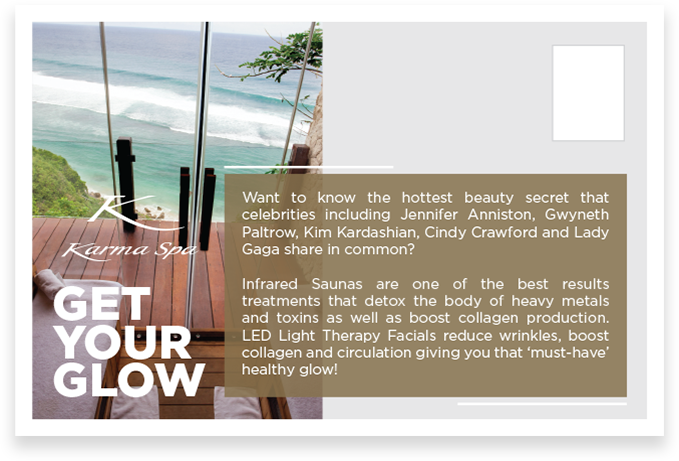
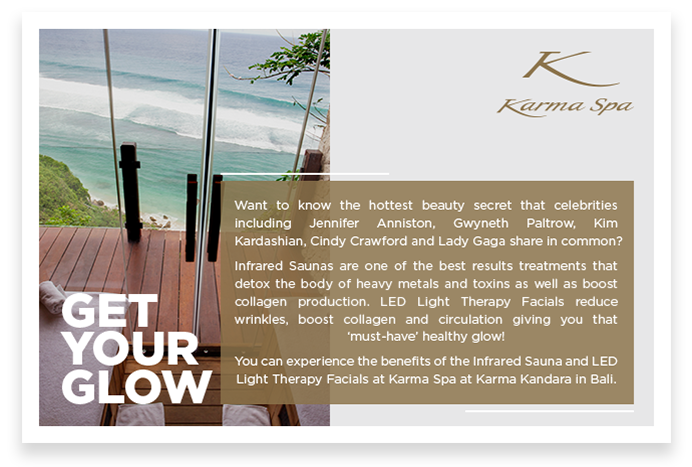
add revisi edm thankfull tuesday

Changed region(s): [[0.0309, 0.0304, 0.9278, 0.9111], [0.7113, 0.0911, 0.9278, 0.2733], [0.7423, 0.1518, 0.7732, 0.1822]]

diff --git a/2018/Karma_Jimbaran/EDM-ThankfullTuesday/index.html b/2018/Karma_Jimbaran/EDM-ThankfullTuesday/index.html
@@ -412,7 +412,7 @@
 <body bgcolor="#cccccc" leftmargin="0" topmargin="0" marginwidth="0" marginheight="0" style="background-color:#cccccc;"><table width="100%" border="0" cellspacing="0" cellpadding="0" style="border-spacing: 0;border-collapse: collapse;">
 <span class="preheader"  style="display: none !important;color:#e5e5e5 !important;"></span>
   <tr>
-    <td bgcolor="#cccccc" align="center">     
+    <td bgcolor="#cccccc" align="center">   	  
    	  <table width="720" class="main" border="0" align="center" cellpadding="0" cellspacing="0" style="border-spacing: 0; border-collapse: collapse; text-align: justify;">
        
           
@@ -424,13 +424,8 @@
    	      <td align="center" bgcolor="#ffffff">&nbsp;</td>
         </tr>
         <tr>
-		  <td align="center" bgcolor="#FFFFFF" class="row_content fallback-text titletext" style="font-family: 'Open Sans', Arial, sans-serif; padding:30px 30px 5px 30px;"><p class="fallback-text" style="font-family: 'Open Sans', Arial, sans-serif; font-weight: 800; font-size: 20px; color: #8b734c; mso-line-height-rule: exactly;line-height:130%; Margin-top: 0; Margin-bottom: 0; text-align: center;text-transform:uppercase;"><strong>YOGA + SPA - It's #TransformationTuesday</strong></p>
-			<p class="fallback-text" style="font-family: 'Open Sans', Arial, sans-serif;font-weight: 800; font-size: 14px; color: #434343; mso-line-height-rule: exactly;line-height:180%; Margin-top: 0; Margin-bottom: 0; text-align: center;"> at Karma Jimbaran Resort in Jimbaran Bay</p>
-			</td>
-        </tr>
-        <tr>
    	      <td align="center" bgcolor="#ffffff" class="row_content fallback-text smltext" style="font-family: 'Open Sans', Arial, sans-serif;padding:20px 40px 30px 40px;"><p class="fallback-text" style="font-family: 'Open Sans', Arial, sans-serif;font-weight: 400; font-size: 14px; color: #000000; mso-line-height-rule: exactly;line-height:180%; Margin-top: 0; Margin-bottom: 0; text-align: center;">
-          Book any 75-minutes massage at Karma Jimbaran this month and you can join us for our Tuesday afternoon yoga session. Don't forget Karma Spa offers the celebrity Oxygen Infusion and Yoga Facials. All this, plus journey through our new wellness cuisine at Karma Bay - from quinoa bowls to wellness tonics and smoothies, we've got this.<br><br>
+			Book any 75-minute massage at Karma Jimbaran this month and you can join us for our Tuesday afternoon yoga session. Don't forget Karma Spa offers the celebrity Oxygen Infusion and Yoga Facials. All this, plus journey through our new wellness cuisine at Karma Bay - from quinoa bowls to wellness tonics and smoothies, <br>we've got this.<br><br>
 			  <span style="color: #434343; font-size: 15px;font-weight: 800;"><strong>Price 550++ per person / 950++ per couple including wellness tonic</strong></span>
           </p>
 		</td>

diff --git a/2018/Karma_Jimbaran/EDM-ThankfullTuesday/KJ-EDM-ThankfullTuesday-rev1.html b/2018/Karma_Jimbaran/EDM-ThankfullTuesday/KJ-EDM-ThankfullTuesday-rev1.html
@@ -425,13 +425,8 @@
    	      <td align="center" bgcolor="#ffffff">&nbsp;</td>
         </tr>
         <tr>
-			<td align="center" bgcolor="#FFFFFF" class="row_content fallback-text titletext" style="font-family: 'Open Sans', Arial, sans-serif; padding:30px 30px 5px 30px;"><p class="fallback-text" style="font-family: 'Open Sans', Arial, sans-serif; font-weight: 800; font-size: 20px; color: #8b734c; mso-line-height-rule: exactly;line-height:130%; Margin-top: 0; Margin-bottom: 0; text-align: center;text-transform:uppercase;"><strong>YOGA + SPA - It's #TransformationTuesday</strong></p>
-			<p class="fallback-text" style="font-family: 'Open Sans', Arial, sans-serif;font-weight: 800; font-size: 14px; color: #434343; mso-line-height-rule: exactly;line-height:180%; Margin-top: 0; Margin-bottom: 0; text-align: center;"> at Karma Jimbaran Resort in Jimbaran Bay</p>
-			</td>
-        </tr>
-        <tr>
    	      <td align="center" bgcolor="#ffffff" class="row_content fallback-text smltext" style="font-family: 'Open Sans', Arial, sans-serif;padding:20px 40px 30px 40px;"><p class="fallback-text" style="font-family: 'Open Sans', Arial, sans-serif;font-weight: 400; font-size: 14px; color: #000000; mso-line-height-rule: exactly;line-height:180%; Margin-top: 0; Margin-bottom: 0; text-align: center;">
-          Book any 75-minutes massage at Karma Jimbaran this month and you can join us for our Tuesday afternoon yoga session. Don't forget Karma Spa offers the celebrity Oxygen Infusion and Yoga Facials. All this, plus journey through our new wellness cuisine at Karma Bay - from quinoa bowls to wellness tonics and smoothies, we've got this.<br><br>
+			Book any 75-minute massage at Karma Jimbaran this month and you can join us for our Tuesday afternoon yoga session. Don't forget Karma Spa offers the celebrity Oxygen Infusion and Yoga Facials. All this, plus journey through our new wellness cuisine at Karma Bay - from quinoa bowls to wellness tonics and smoothies, <br>we've got this.<br><br>
 			  <span style="color: #434343; font-size: 15px;font-weight: 800;"><strong>Price 550++ per person / 950++ per couple including wellness tonic</strong></span>
           </p>
 		</td>
